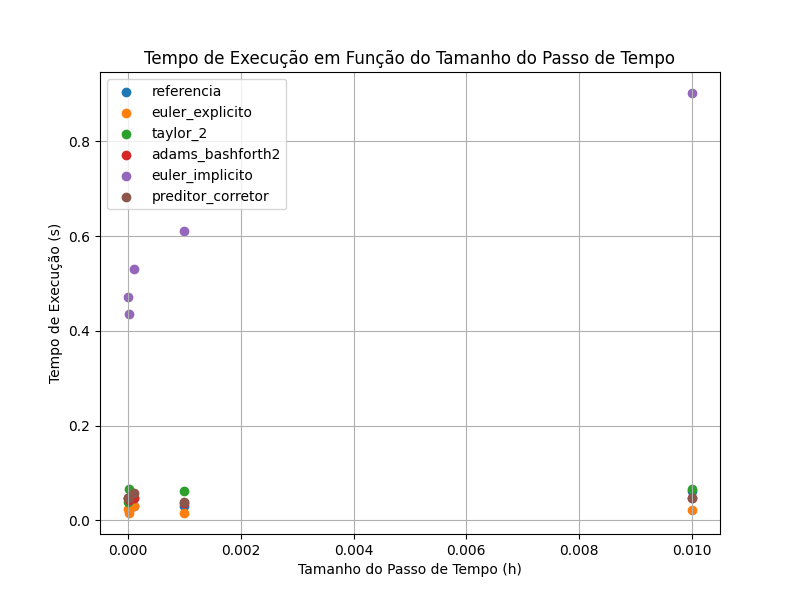
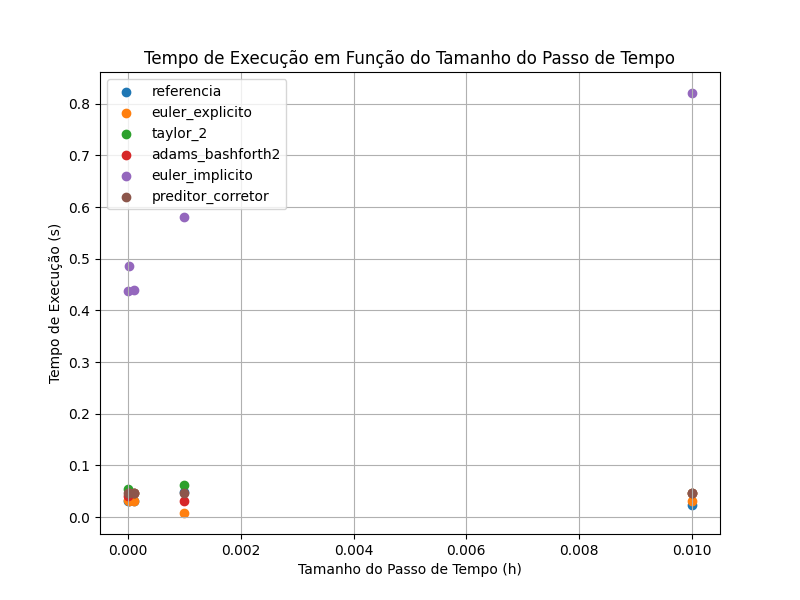
ok

diff --git a/02/Metodos.py b/02/Metodos.py
@@ -43,11 +43,14 @@ class Metodos:
         # Chama os métodos de resolução para cada um dos métodos
         self.t_euler_e, self.u_euler_e = self.euler_explicito(
             t0, u0, h, self.num_passos)
-        self.t_taylor_2, self.u_taylor_2 = self.taylor_2(t0, u0, h, self.num_passos)
-        self.t_AB_2, self.u_AB_2 = self.adams_bashforth2(t0, u0, h, self.num_passos)
+        self.t_taylor_2, self.u_taylor_2 = self.taylor_2(
+            t0, u0, h, self.num_passos)
+        self.t_AB_2, self.u_AB_2 = self.adams_bashforth2(
+            t0, u0, h, self.num_passos)
         self.t_euler_i, self.u_euler_i = self.euler_implicito(
             t0, u0, h, self.num_passos)
-        self.t_PC, self.u_PC = self.preditor_corretor(t0, u0, h, self.num_passos)
+        self.t_PC, self.u_PC = self.preditor_corretor(
+            t0, u0, h, self.num_passos)
 
         # Define um dicionário com os métodos de resolução
         self.metodos_dict = {
@@ -122,6 +125,33 @@ class Metodos:
 
         # Define a matriz jacobiana
         jac = np.array([[0, 1], [-np.cos(u1), 0]])
+
+        return jac
+
+    def f_jacobiano(self, u, t, h):
+        """
+        Define a função que retorna a matriz jacobiana da função f em relação às variáveis u1 e u2.
+
+        Args:
+            u (list or array): Lista ou array contendo os valores das variáveis u1 e u2.
+            t (float): Valor do parâmetro t.
+
+        Returns:
+            array: Array contendo a matriz jacobiana da função f em relação às variáveis u1 e u2.
+
+        Example:
+            >>> obj = MyClass()
+            >>> u = [0.5, 1.0]
+            >>> t = 0.0
+            >>> obj.f_jac(u, t)
+            array([[ 0.        ,  1.        ],
+                [-0.87758256,  0.        ]])
+        """
+        # Extrai os valores de u1 e u2 do vetor u
+        u1, u2 = u
+
+        # Define a matriz jacobiana
+        jac = np.array([[1, -h], [h*np.cos(u1), 1]])
 
         return jac
 
@@ -267,19 +297,19 @@ class Metodos:
         for i in range(2, num_passos + 1):
             # Adição do próximo valor de t e u às listas
             t.append(t[i-1] + h)
-            u.append(u[i-1] + (h / 2) * (3 * self.f(u[i-1], t[i-1]) - self.f(u[i-2], t[i-2])))
+            u.append(u[i-1] + (h / 2) *
+                     (3 * self.f(u[i-1], t[i-1]) - self.f(u[i-2], t[i-2])))
 
         return t, u
 
-    def newton(self, f, x0, f_prime, tol=1e-2, max_iter=50):
+    def newton(self, f, x0, f_prime, max_iter=6):
         x = x0
         for _ in range(max_iter):
             fx = f(x)
-            if np.linalg.norm(fx) < tol:
-                return x
             dfx = f_prime(x)
             x -= solve(dfx, fx)
-        raise ValueError("O método de Newton atingiu o número máximo de iterações sem convergir.")
+
+        return x
 
     def euler_implicito(self, t0, u0, h, num_passos):
         """
@@ -307,13 +337,13 @@ class Metodos:
                 return u_prox - u_i - h * self.f(u_prox, t_i + h)
 
             def f_prime_i(u_prox):
-                return np.eye(2) - h * self.f_jac(u_prox, t_i + h)
+                return self.f_jacobiano(u_prox, t_i + h, h)
 
             # Usando o método de Newton para encontrar u_{i+1}
-            u_prox = newton(f_i, u_i, f_prime_i)
+            u_proxx = newton(f_i, u_i)
 
             t.append(t_i + h)
-            u.append(u_prox)
+            u.append(u_proxx)
 
         return t, u
 
@@ -487,8 +517,10 @@ class Metodos:
             primeira_coluna_ref = [linha[0] for linha in u_ref]
             segunda_coluna_ref = [linha[1] for linha in u_ref]
 
-            error_u1 = self.calculate_error(primeira_coluna_ref, primeira_coluna_metodo)
-            error_u2 = self.calculate_error(segunda_coluna_ref, segunda_coluna_metodo)
+            error_u1 = self.calculate_error(
+                primeira_coluna_ref, primeira_coluna_metodo)
+            error_u2 = self.calculate_error(
+                segunda_coluna_ref, segunda_coluna_metodo)
 
             error_u1_list.append(error_u1)
             error_u2_list.append(error_u2)
